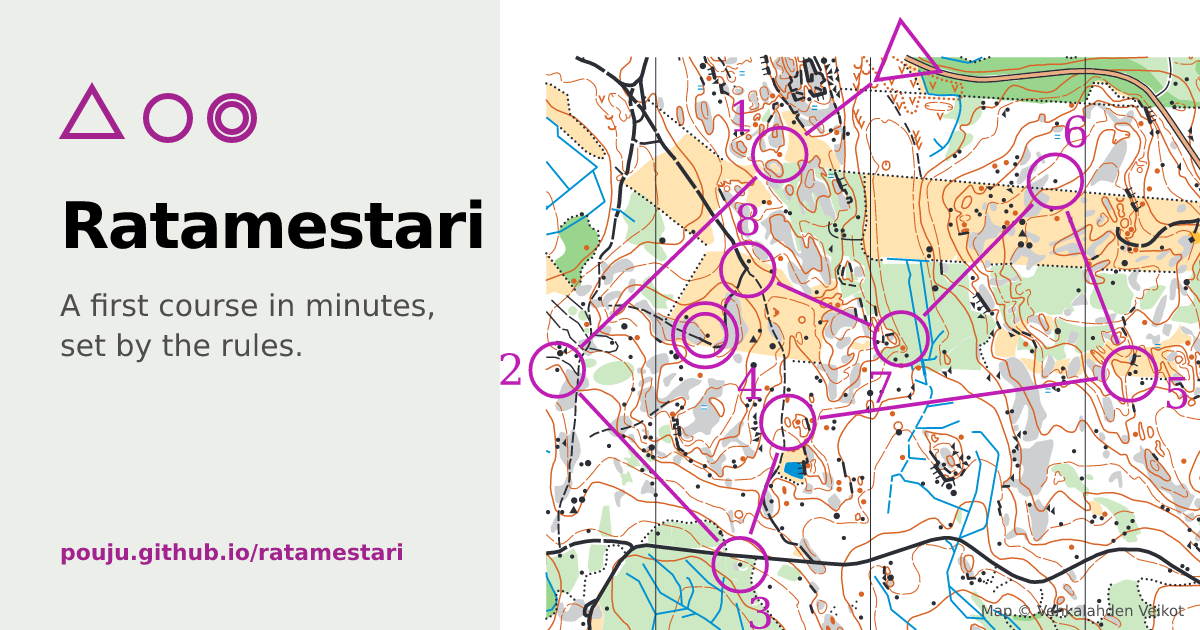
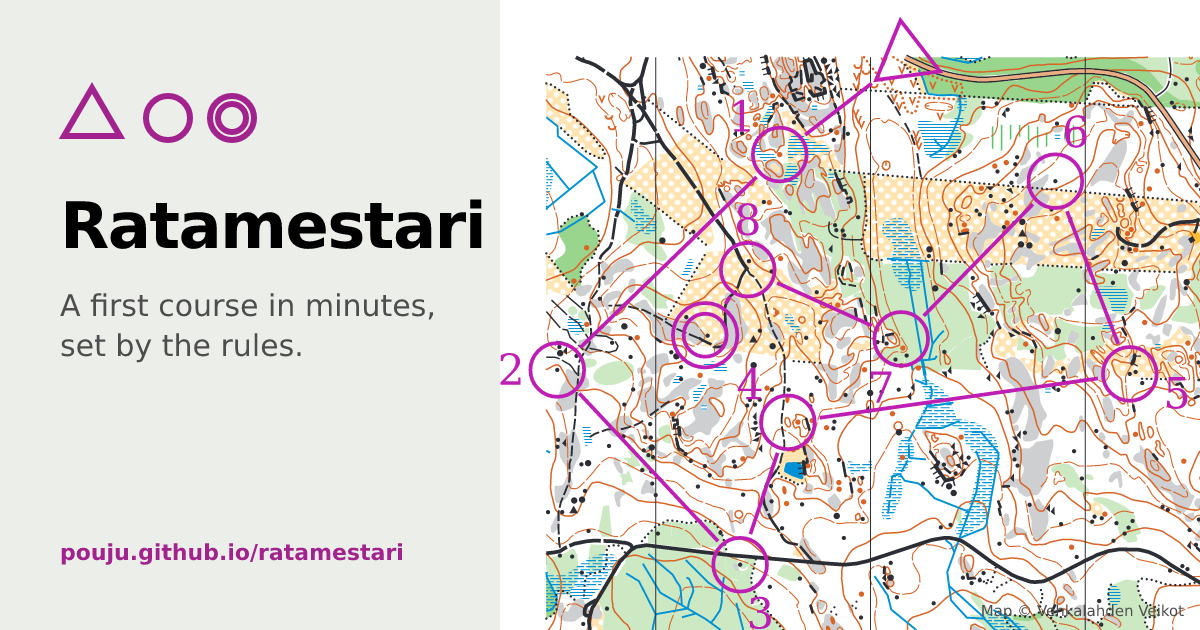
fix(web): draw marshes and scattered trees in the landing page map
The landing page's map image and the link preview are rendered in
Node, where ocad2geojson's pattern ids never reached the SVG, so every
hatched or dotted area (marsh, rough open land with scattered trees)
was left out. Both dev scripts now render into a document that keeps
those ids, and the images are recorded again; the course is unchanged.

diff --git a/scripts/render-course.ts b/scripts/render-course.ts
@@ -2,7 +2,7 @@ import { mkdirSync, readdirSync, readFileSync, writeFileSync } from 'node:fs'
 import { join } from 'node:path'
 import { parseArgs } from 'node:util'
 import { Resvg } from '@resvg/resvg-js'
-import { DOMImplementation, XMLSerializer } from 'xmldom'
+import { XMLSerializer } from 'xmldom'
 import { localPoint, type LocalPoint } from '@ratamestari/core'
 import {
   buildTerrain,
@@ -25,6 +25,7 @@ import {
 import { courseDataXml, describeControl, descriptionSheet, descriptionText } from '@ratamestari/iof'
 import { loadOcadMap } from '@ratamestari/map-import-ocad'
 import { printPageSvg } from '@ratamestari/print'
+import { svgDocument } from './svg-document'
 import { svgToPdf } from './svg-to-pdf'
 import {
   courseRequestSchema,
@@ -210,8 +211,7 @@ function printLegs(c: Course) {
 }
 
 function printPage(c: Course, withoutCourse = false): string {
-  const doc = new DOMImplementation().createDocument(null, 'svg', null) as unknown as Document
-  serializeElementIds(doc)
+  const doc = svgDocument()
   const mapSvg = new XMLSerializer().serializeToString(
     map.renderSvg(doc, i => !peripheral.marginObjectIndices.has(i)) as unknown as Node,
   )
@@ -237,21 +237,6 @@ function printPage(c: Course, withoutCourse = false): string {
   })
   if (!page) throw new Error('The course has no print area')
   return page.svg
-}
-
-// ocad2geojson sets pattern ids as a DOM property, which xmldom does not serialise, so the
-// hatched and structured areas would lose their fill.
-function serializeElementIds(doc: Document) {
-  const elementPrototype = Object.getPrototypeOf(doc.createElement('g')) as object
-  if (Object.getOwnPropertyDescriptor(elementPrototype, 'id')) return
-  Object.defineProperty(elementPrototype, 'id', {
-    get(this: Element) {
-      return this.getAttribute('id') ?? ''
-    },
-    set(this: Element, id: string) {
-      this.setAttribute('id', id)
-    },
-  })
 }
 
 function renderPng(c: Course): Buffer {

diff --git a/scripts/svg-document.ts b/scripts/svg-document.ts
@@ -1,0 +1,20 @@
+import { DOMImplementation } from 'xmldom'
+
+// A document to render map SVG into outside the browser. ocad2geojson sets pattern ids as a DOM
+// property, which xmldom does not serialise, so ids are kept as attributes; otherwise hatched and
+// structured areas (marsh, scattered trees, …) lose their fill.
+export function svgDocument(): Document {
+  const document = new DOMImplementation().createDocument(null, 'svg', null) as unknown as Document
+  const elementPrototype = Object.getPrototypeOf(document.createElement('g')) as object
+  if (!Object.getOwnPropertyDescriptor(elementPrototype, 'id')) {
+    Object.defineProperty(elementPrototype, 'id', {
+      get(this: Element) {
+        return this.getAttribute('id') ?? ''
+      },
+      set(this: Element, id: string) {
+        this.setAttribute('id', id)
+      },
+    })
+  }
+  return document
+}

diff --git a/scripts/record-demo-run.ts b/scripts/record-demo-run.ts
@@ -3,7 +3,8 @@ import { readFileSync, writeFileSync } from 'node:fs'
 import { createRequire } from 'node:module'
 import { parseArgs } from 'node:util'
 import { Resvg } from '@resvg/resvg-js'
-import { DOMImplementation, XMLSerializer } from 'xmldom'
+import { svgDocument } from './svg-document'
+import { XMLSerializer } from 'xmldom'
 import type { LocalPoint } from '@ratamestari/core'
 import {
   buildTerrain,
@@ -208,7 +209,7 @@ execFileSync(
   { stdio: 'ignore' },
 )
 
-const document = new DOMImplementation().createDocument(null, 'svg', null) as unknown as Document
+const document = svgDocument()
 const svgOf = (includesObject: (objectIndex: number) => boolean) =>
   new XMLSerializer().serializeToString(map.renderSvg(document, includesObject) as unknown as Node)
 const pageInput = {
